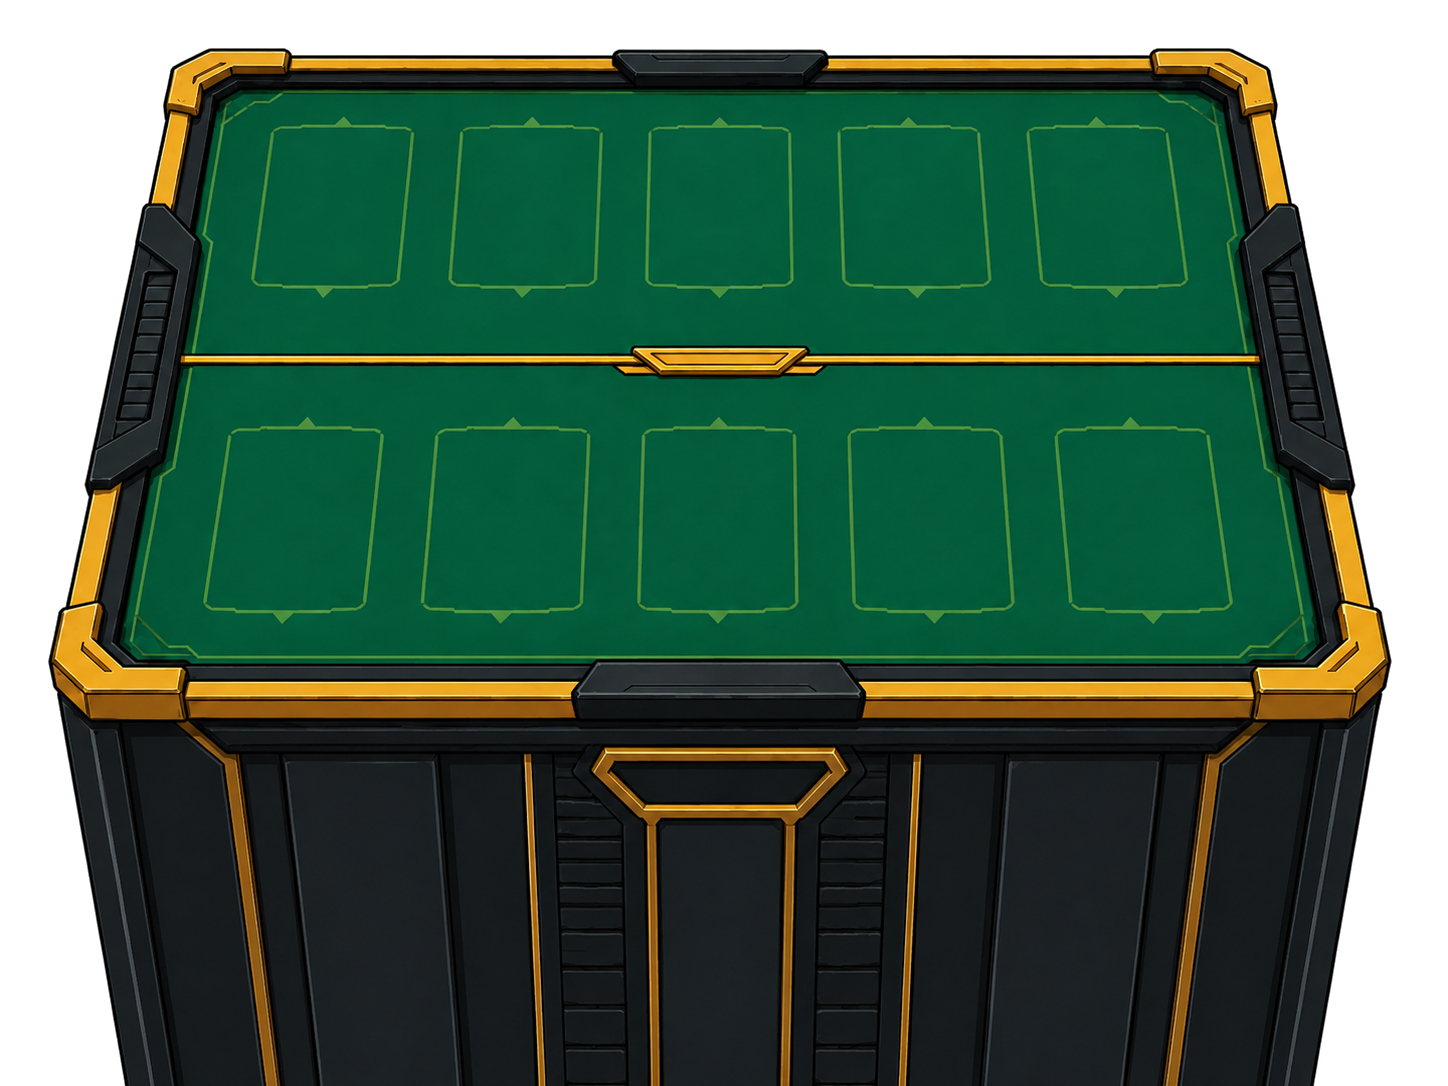
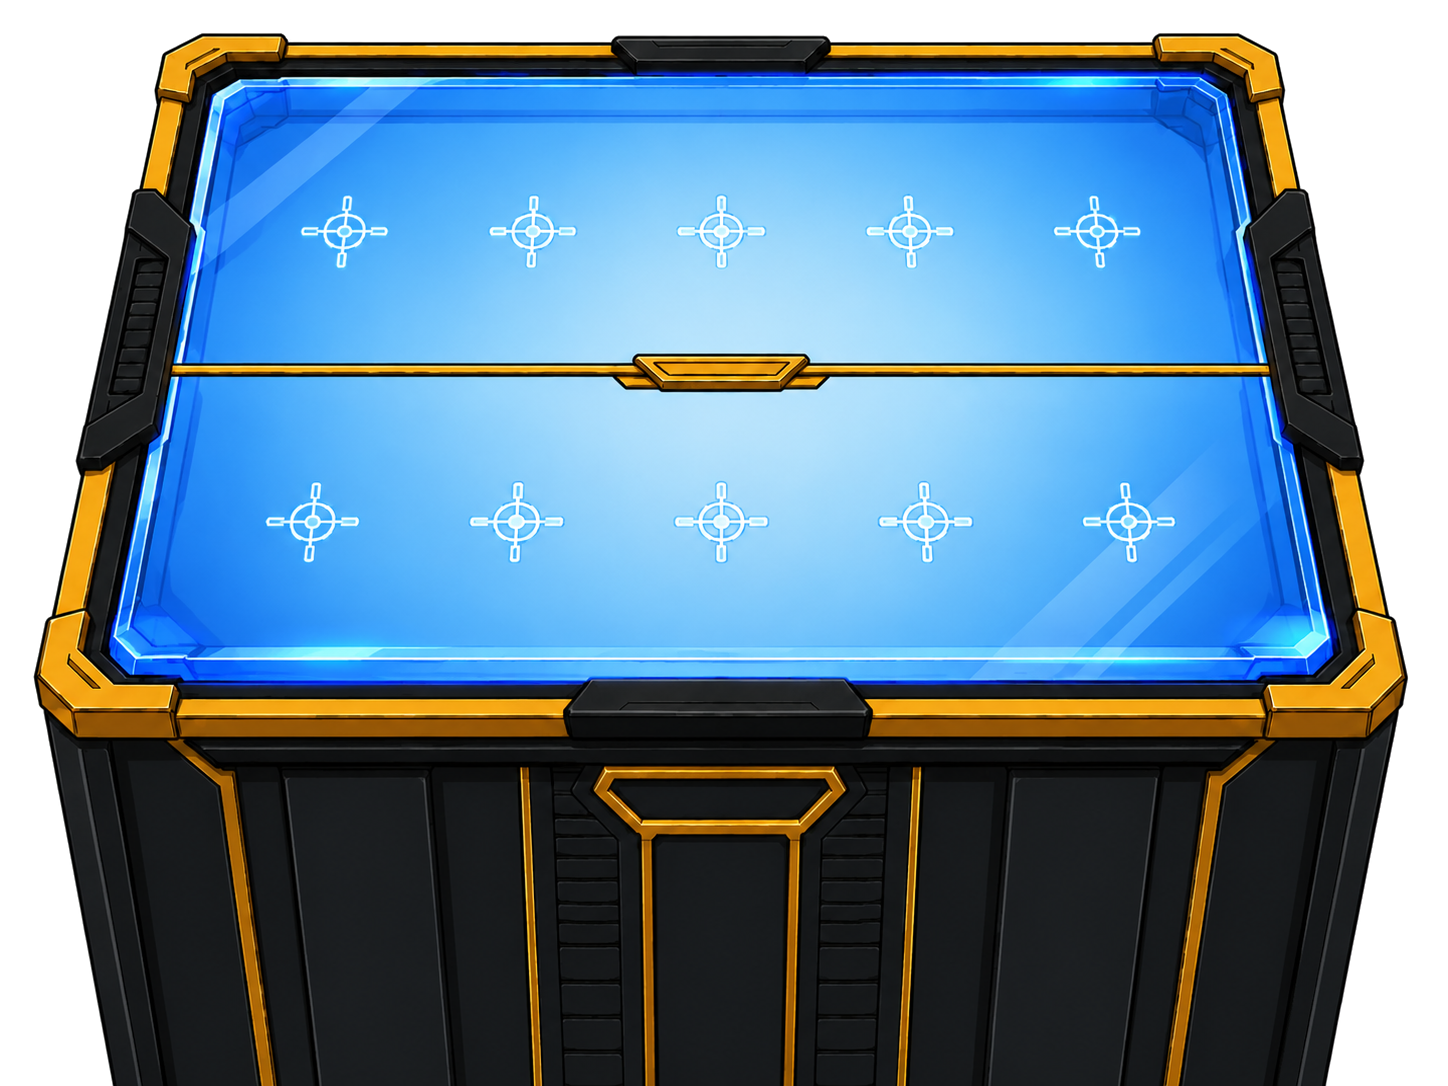
Replace board with glass-top version

diff --git a/src/styles.css b/src/styles.css
@@ -654,8 +654,8 @@ button.battle-hand-rail:hover .battle-hand-card:not(:first-child), button.battle
 /* 盤面はボードの絵とぴったり同じ矩形に重ねる。カードは枠の中心比（--slot-x / --slot-y）で絶対配置。 */
 .board-zone { position: absolute; z-index: 2; left: var(--board-left); top: var(--board-top); width: var(--board-width); height: var(--board-height); padding: 0; border: 0; border-radius: 0; box-sizing: border-box; pointer-events: none; }
 .empty-board { position: absolute; left: 50%; transform: translate(-50%, -50%); color: #ffffff55; font: 800 12px "Yu Gothic", sans-serif; white-space: nowrap; }
-.opponent-board .empty-board { top: 19.06%; }
-.brother-board .empty-board { top: 47.88%; }
+.opponent-board .empty-board { top: 21.32%; }
+.brother-board .empty-board { top: 48.07%; }
 .board-line { position: absolute; z-index: 1; top: calc(var(--board-top) + var(--board-height) * .331 - 13px); left: calc(var(--board-left) + var(--board-width) * .129); width: calc(var(--board-width) * .737); height: 26px; display: grid; place-items: center; }
 .board-line::before { display: none; }
 .board-line b { visibility: hidden; }

diff --git a/src/App.tsx b/src/App.tsx
@@ -892,9 +892,12 @@ function opponentHandForPlayback(event: BattleEvent | undefined, fallback: Battl
  * 画像に対する比率（0〜1）。絵を差し替えたら測り直してここだけ更新する。
  * 手前が広い台形なので、上段（相手）と下段（弟）で幅と中心が違う。
  */
+/* board.png v2 measurement: source 1448x1086. Slot centers are measured from the
+   ten white crosshair marks. Card widths intentionally stay at the existing
+   readable values instead of being derived from the smaller marks. */
 const BOARD_SLOTS = {
-  opponent: { centerY: 0.1906, width: 0.0988, centerX: [0.2293, 0.3633, 0.4965, 0.6305, 0.7645] },
-  brother: { centerY: 0.4788, width: 0.1069, centerX: [0.2044, 0.3502, 0.4955, 0.6409, 0.7873] },
+  opponent: { centerY: 0.2132, width: 0.0988, centerX: [0.2379, 0.3677, 0.4979, 0.6281, 0.7573] },
+  brother: { centerY: 0.4807, width: 0.1069, centerX: [0.2155, 0.3564, 0.4976, 0.6392, 0.7794] },
 } as const;
 
 /** 中央寄りの枠から埋める順。1枚目が中央、以降は内側から外側へ交互に広がる。 */
